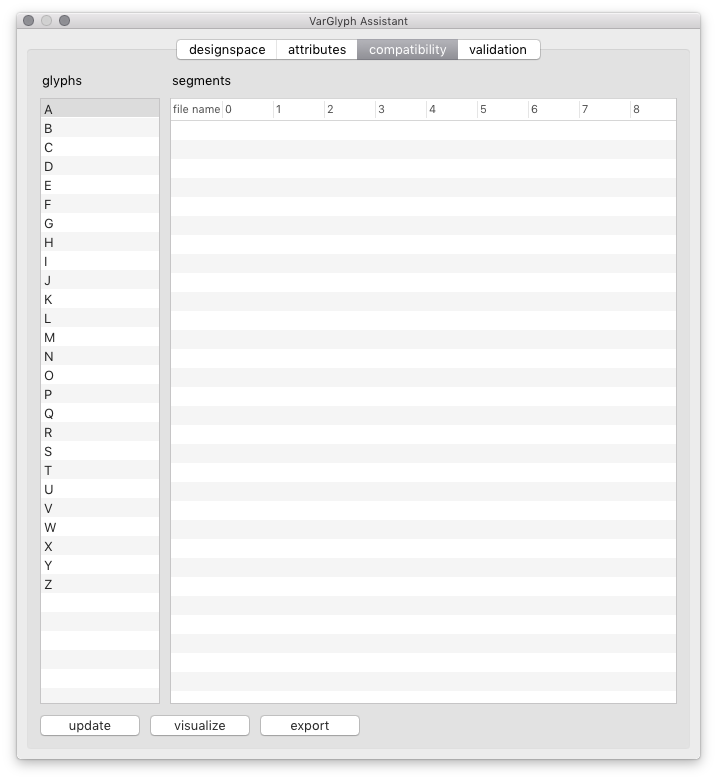
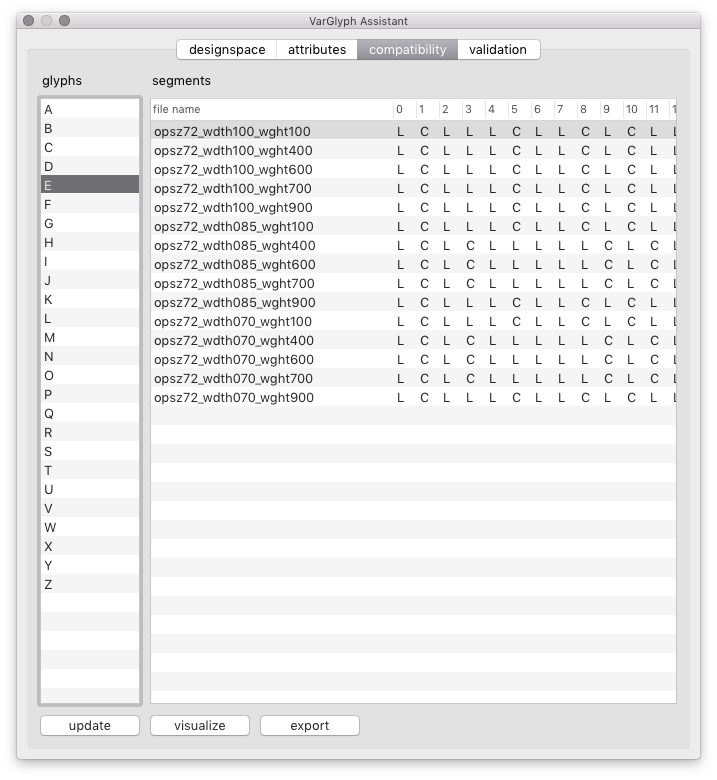
writing a basic description of the tools

diff --git a/README.md b/README.md
@@ -11,13 +11,13 @@ A new set of tools to assist in the development of variable fonts.
 VarFont Assistant
 -----------------
 
-A tool to view and edit font-level values in designspace sources.
+A tool to view and edit font values in designspace sources.
 
 ### designspace
 
 Use this tab to define which designspace and fonts sources to look into.
 
-![](/hipertipo/tools/VarTools/_imgs/VarFontAssistant-1.png)
+![](_imgs/VarFontAssistant-1.png)
 
 1. Drag one or more `.designspace` files into the first list. The UI will update to show the axes and sources in the designspace.
 2. Select sources in which to collect values. Click on the column headers to sort the list using different parameters.
@@ -26,7 +26,7 @@ Use this tab to define which designspace and fonts sources to look into.
 
 Use this tab to visualize (and edit) font info values in selected sources.
 
-![](/hipertipo/tools/VarTools/_imgs/VarFontAssistant-2.png)
+![](_imgs/VarFontAssistant-2.png)
 
 1. Select which font info attributes to measure.
 2. Click the *update* button to scan the fonts, collect values and display them in the UI.
@@ -38,7 +38,7 @@ Use this tab to visualize (and edit) font info values in selected sources.
 
 Use this tab to visualize (and edit) glyph values in selected sources.
 
-![](/hipertipo/tools/VarTools/_imgs/VarFontAssistant-3.png)
+![](_imgs/VarFontAssistant-3.png)
 
 1. Select one glyph attribute to collect values.
 2. Type or paste a list of glyph names for value collection.
@@ -51,7 +51,7 @@ Use this tab to visualize (and edit) glyph values in selected sources.
 
 Use this tab to measure and visualize specific distances in selected sources.
 
-![](/hipertipo/tools/VarTools/_imgs/VarFontAssistant-4.png)
+![](_imgs/VarFontAssistant-4.png)
 
 1. Drag one or more `.csv` files with measurement definitions into the fonts. The UI will update to show the various measurement definitions contained in the selected file.
 2. Select which measurements to collect values.
@@ -67,41 +67,68 @@ A tool to view and edit glyph data in designspace sources.
 
 ### designspace
 
-Use this tab to define which designspace and fonts sources to look into.
+Use this tab to define which designspace, font sources and glyphs to look into.
 
-![](/hipertipo/tools/VarTools/_imgs/VarGlyphAssistant-1.png)
+![](_imgs/VarGlyphAssistant-1.png)
 
 1. Drag one or more .designspace files into the first list. The UI will update to show the axes and sources in the designspace.
-2. Type or paste a list of glyph names for value collection.
+2. Type or paste a list of glyph names for analysis.
 3. Select sources in which to collect values. Click on the column headers to sort the list using different parameters.
 
 ### attributes
 
 Use this tab to visualize various glyph values in selected sources.
 
-![](/hipertipo/tools/VarTools/_imgs/VarGlyphAssistant-2.png)
+![](_imgs/VarGlyphAssistant-2.png)
+
+1. Click the *update* button to scan the fonts, collect values and display them in the UI.
+2. Use the *glyphs* column to load current glyph data into the table.
+3. Use the *visualize* button to plot the numbers with graphics in PDF format.
+4. Use the *export* button to save the table as a CSV file.
 
 ### compatibility
 
-Use this tab to check for interpolation compatibility in glyphs from selected sources.
+Use this tab to check if glyphs from selected sources are compatible for interpolation.
 
-![](/hipertipo/tools/VarTools/_imgs/VarGlyphAssistant-3.png)
+![](_imgs/VarGlyphAssistant-3.png)
+
+1. Click the *update* button to scan the fonts, collect values and display them in the UI.
+2. Use the *glyphs* column to load current glyph data into the table. Line segments are identified by a letter `L`, curve segments are identified by a letter `C`.
+3. Use the *visualize* button to plot the numbers with graphics in PDF format.
+4. Use the *export* button to save the table as a CSV file.
 
 ### validation
 
-![](/hipertipo/tools/VarTools/_imgs/VarGlyphAssistant-4.png)
+Use this tab to perform various tests to glyphs in selected sources.
+
+![](_imgs/VarGlyphAssistant-4.png)
+
 
 
 Glyph Validator
 ---------------
 
-A tool to check individual fonts for internal consistency using glyph memes validation.
+A tool to check individual fonts for internal consistency in one or more using glyph memes validation.
 
 ### definitions
 
-![](/hipertipo/tools/VarTools/_imgs/GlyphValidator-1.png)
+Use this tab to load and edit glyph memes.
+
+![](_imgs/GlyphValidator-1.png)
+
+1. Choose a folder containing the glyph memes database as `.csv` files.
+2. Use the *glyphs* column to update the table with memes for the current glyph.
+3. If the `.csv` file contents are changed, use the *update* button to load them all again.
 
 ### validation
 
-![](/hipertipo/tools/VarTools/_imgs/GlyphValidator-2.png)
+Use this tab to validate glyphs against the glyph memes.
+
+![](_imgs/GlyphValidator-2.png)
+
+1. Drag one or more UFO fonts into the horizontal list at the top.
+2. Select one font to look into.
+3. Click the *update* button to scan the fonts, perform tests, and display the results in the UI.
+4. Use the *visualize* button to plot the results with graphics in PDF format.
+5. Use the *export* button to save the table as a CSV file.
 
